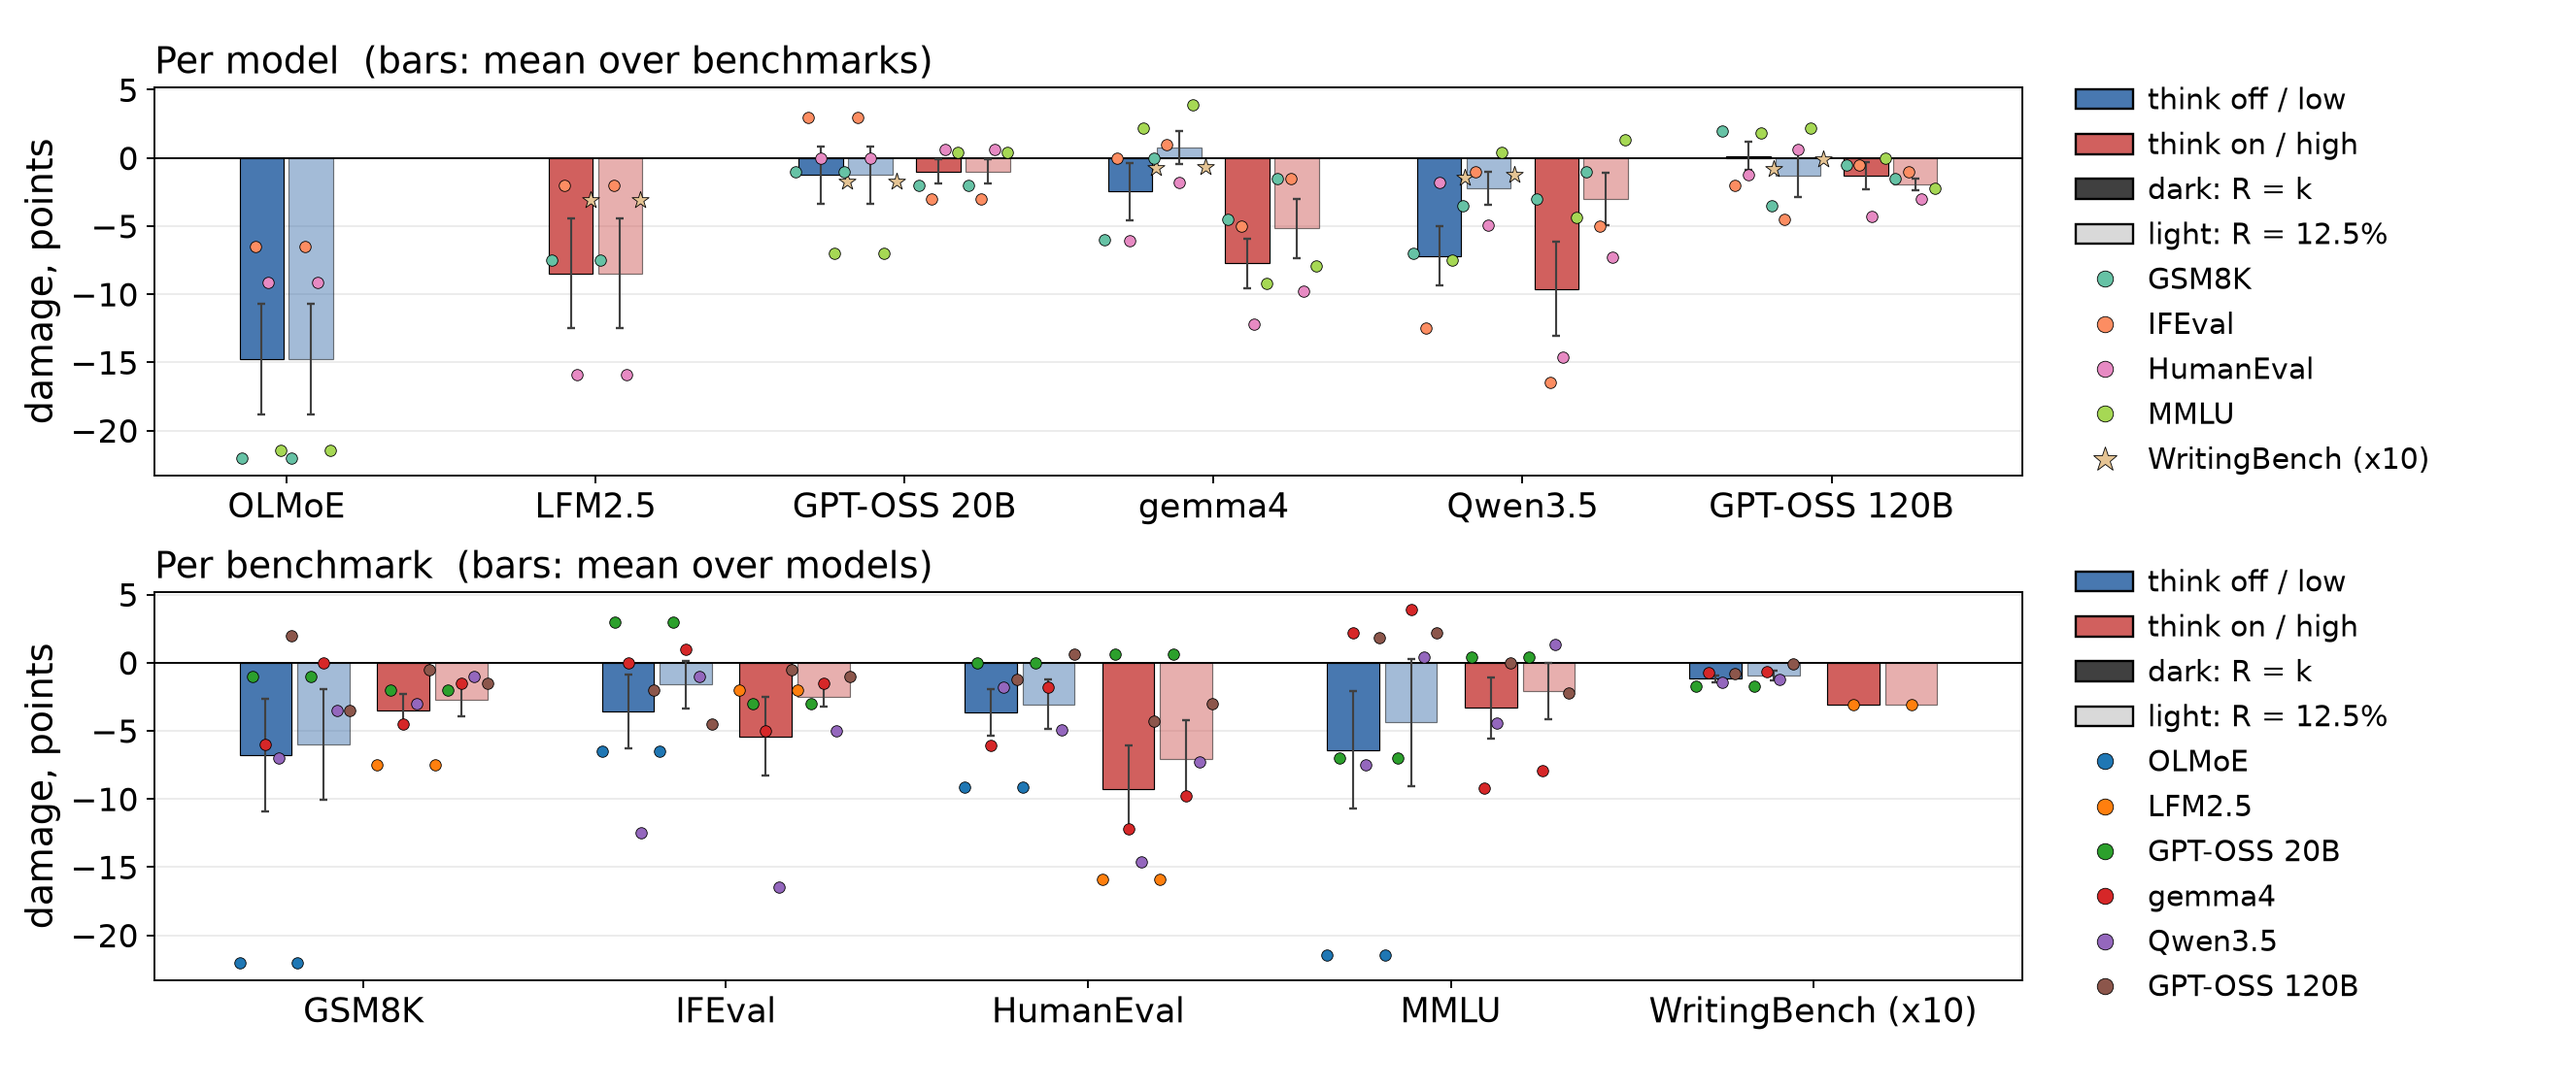
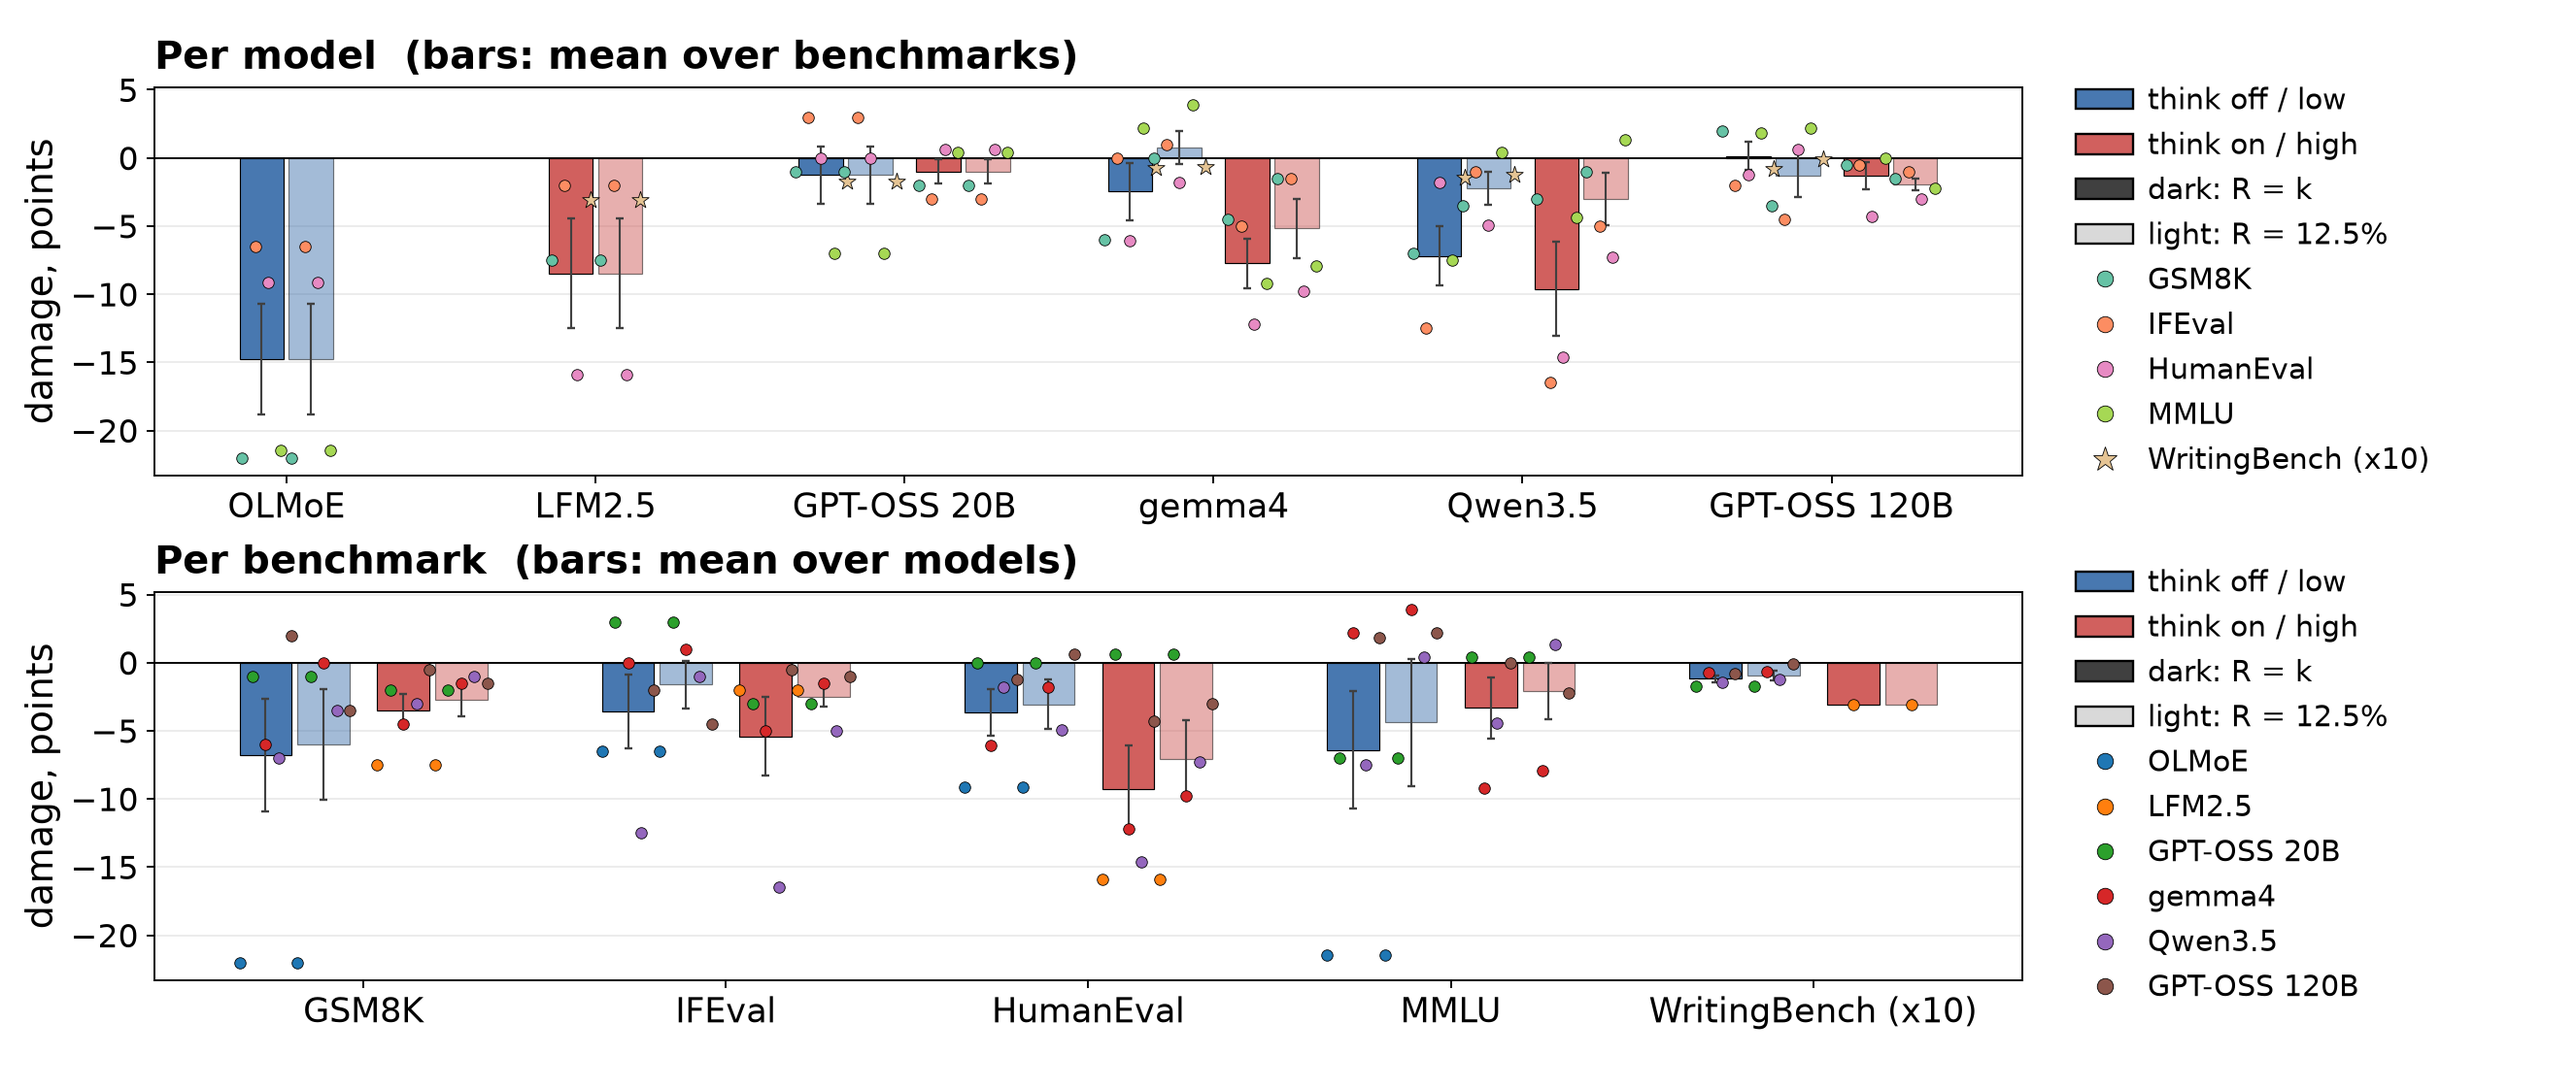
instruct figure title/spacing polish; paper: bump to latest Overleaf state

Changed region(s): [[0.0618, 0.4991, 0.4329, 0.5303], [0.0618, 0.0312, 0.4329, 0.0624]]

diff --git a/analysis/residency/plot_instruct.py b/analysis/residency/plot_instruct.py
@@ -330,7 +330,8 @@ def combined_row():
     axl.set_xticks(range(len(SPEC)))
     axl.set_xticklabels(SHORT)
     axl.set_ylabel("damage, points")
-    axl.set_title("Per model  (bars: mean over benchmarks)", loc="left", fontsize=16)
+    axl.set_title("Per model  (bars: mean over benchmarks)", loc="left",
+                  fontsize=17, fontweight="bold", pad=8)
     axl.grid(alpha=0.25, axis="y")
 
     # ---- right: per benchmark, mode-mean bars + per-model dots ----
@@ -365,7 +366,8 @@ def combined_row():
     axr.set_xticks(range(len(groups)))
     axr.set_xticklabels([glabel.get(b, b) for b in groups])
     axr.set_ylabel("damage, points")
-    axr.set_title("Per benchmark  (bars: mean over models)", loc="left", fontsize=16)
+    axr.set_title("Per benchmark  (bars: mean over models)", loc="left",
+                  fontsize=17, fontweight="bold", pad=8)
     axr.grid(alpha=0.25, axis="y")
 
     # ---- per-panel keys on the right ----
@@ -387,7 +389,7 @@ def combined_row():
         ax.legend(handles=H, loc="center left", bbox_to_anchor=(1.015, 0.5),
                   frameon=False, handletextpad=0.5, labelspacing=0.55)
     fig.subplots_adjust(left=0.06, right=0.785, top=0.92, bottom=0.10,
-                        hspace=0.45)
+                        hspace=0.60)
     _save(fig, "instruct_damage_row")
 
 
